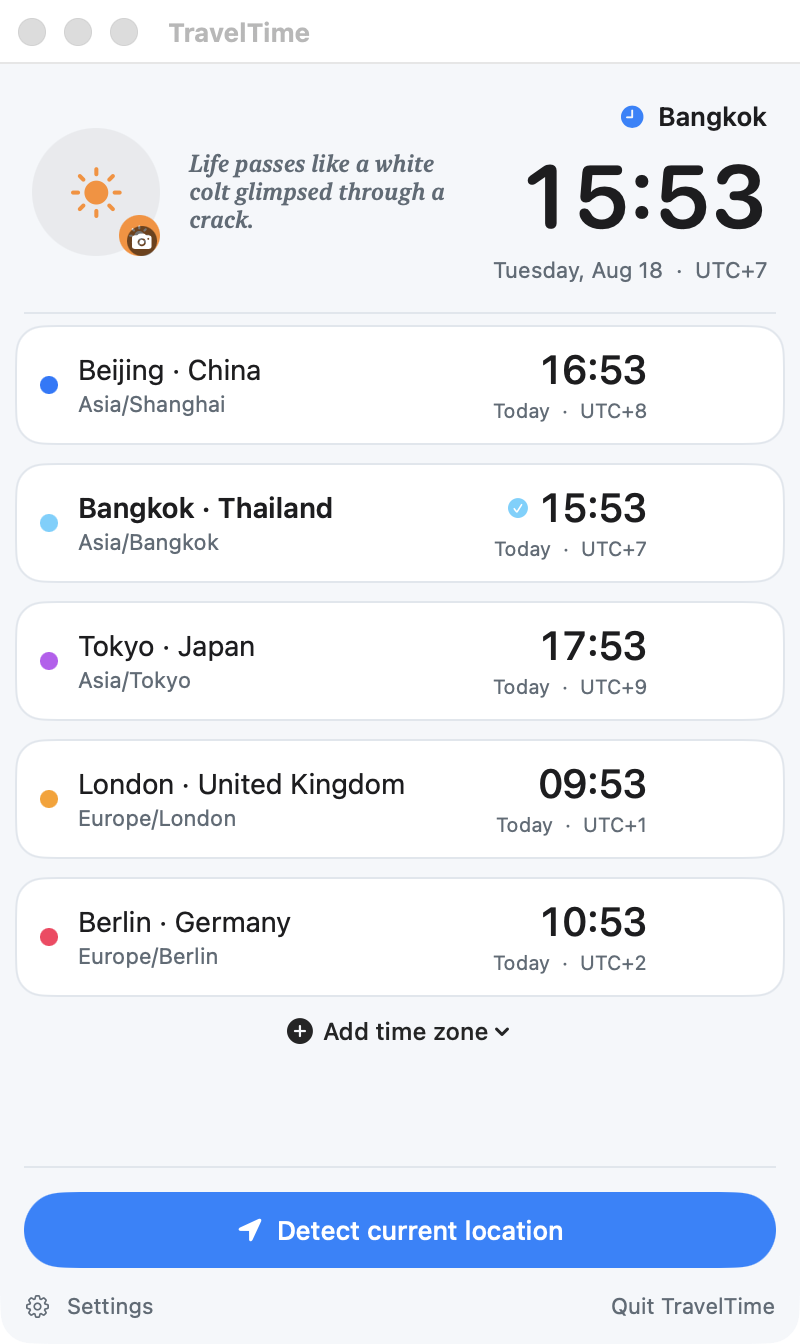
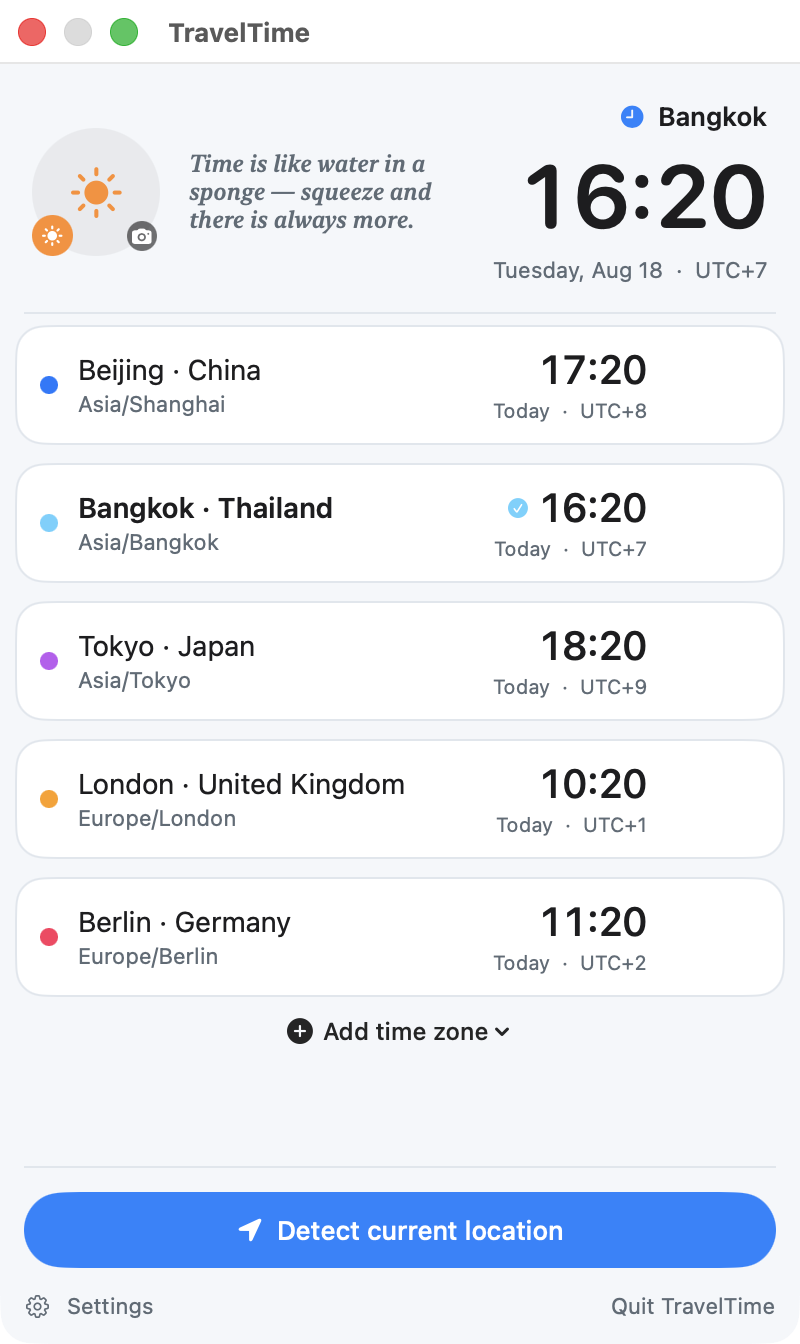
Recapture screenshots from current HEAD; document release flow
Regenerate the four theme screenshots from the round-2 UI so the images
match shipped behaviour: the avatar day/night and camera badges no
longer overlap, and hover affordances are absent (pointer parked off the
panel during capture).

Document `./build.sh release` in the README build section, including the
mandatory `SHA256:` line in the release notes, and narrow the updater
limitation to the releases it actually affects (up to v1.3.3) now that
the release flow emits a correctly named TravelTime-<ver>.app.zip.

diff --git a/CHANGELOG.md b/CHANGELOG.md
@@ -15,10 +15,14 @@ and this project adheres to [Semantic Versioning](https://semver.org/spec/v2.0.0
 
 ### Changed
 - README rewritten: verified feature list, architecture overview, documented
-  privilege and update-verification model, and a **Known limitations** section.
+  privilege and update-verification model, release-cutting instructions, and a
+  **Known limitations** section.
 - Theme screenshots regenerated. All four are now captured from the same build
   and zone set, per-window so no desktop is visible, from a throwaway bundle ID
   so no personal preferences or avatar appear in the images.
+- CI passes `--disable-sandbox` (the workflow could not build without it),
+  caches `.build`, and now assembles and verifies an ad-hoc signed app bundle to
+  catch `Info.plist` and bundle-layout regressions.
 
 ### Fixed
 - `docs/screenshots/theme-minimal.png` was not the app at all — an unrelated
@@ -33,12 +37,14 @@ and this project adheres to [Semantic Versioning](https://semver.org/spec/v2.0.0
   in the codebase relates to Spotlight.
 
 ### Known issues
-- In-app update cannot install published releases: assets are named
-  `TimeZoneBar.app.zip` and extract to `TimeZoneBar.app`, while `Updater.swift`
-  expects `TravelTime.app`.
+- In-app update cannot install releases up to and including v1.3.3: those assets
+  are named `TimeZoneBar.app.zip` and extract to `TimeZoneBar.app`, while
+  `Updater.swift` expects `TravelTime.app`. `./build.sh release` now emits a
+  correctly named archive, so the next published release resolves this.
 - The panel does not auto-size to the number of zones. `updatePanelHeight()`
   exists but is only reachable through store callbacks assigned after the store
-  has already initialised, so the window keeps its initial height.
+  has already initialised, so the window keeps its initial height — measured
+  identical at 3 and at 12 zones.
 
 ## [1.3.3] — 2026-08-17
 
